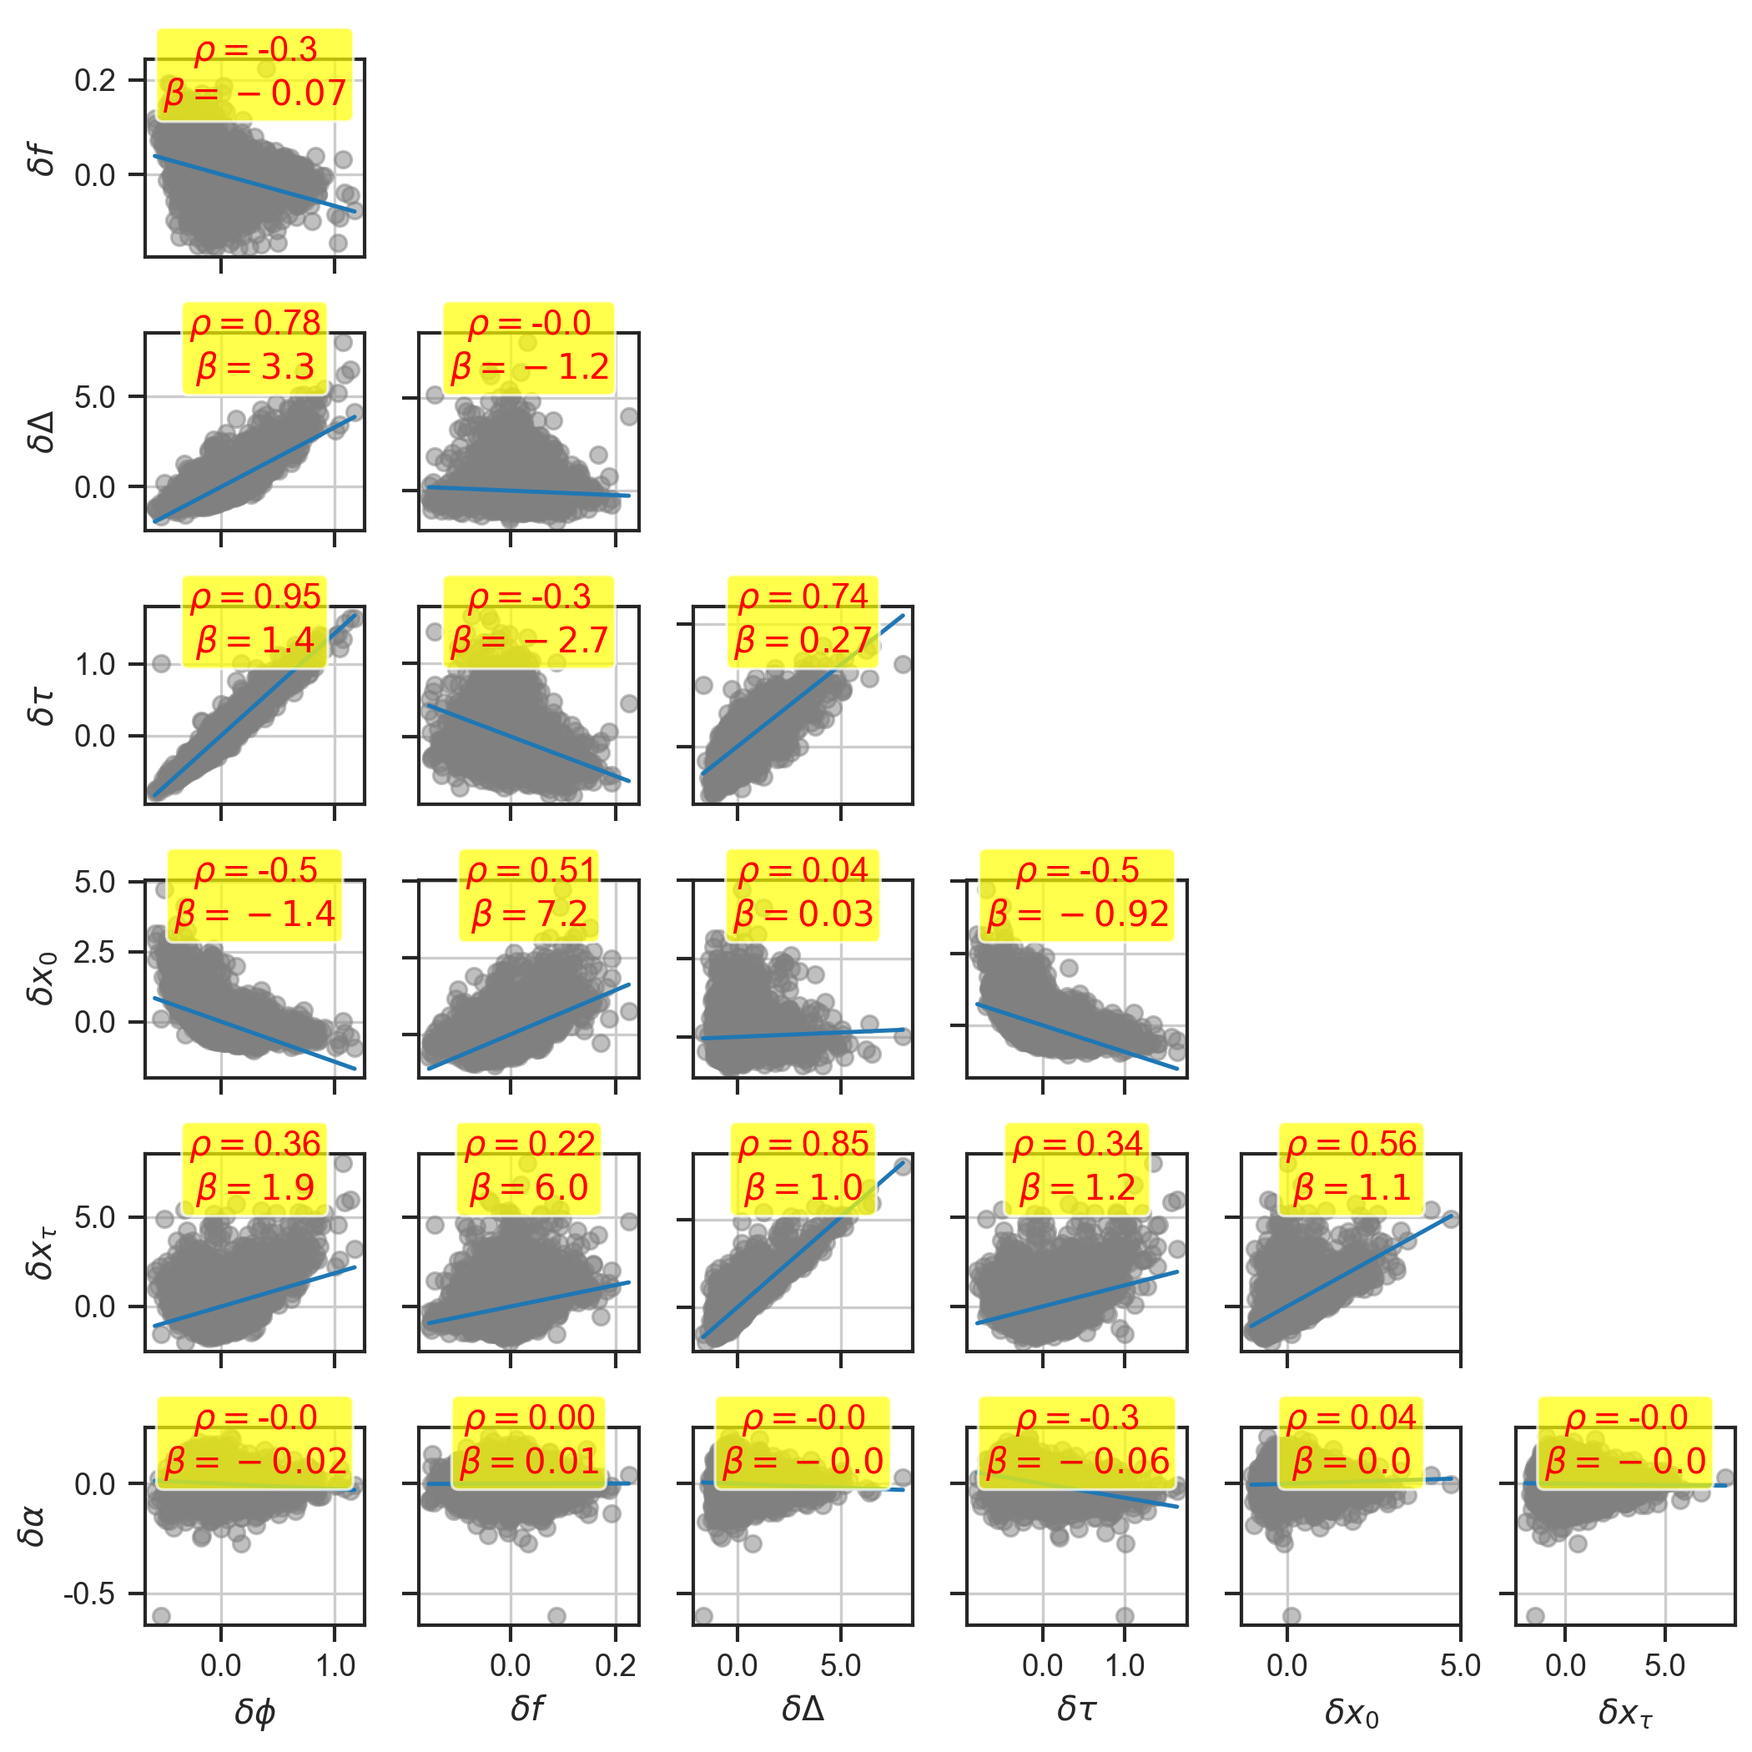
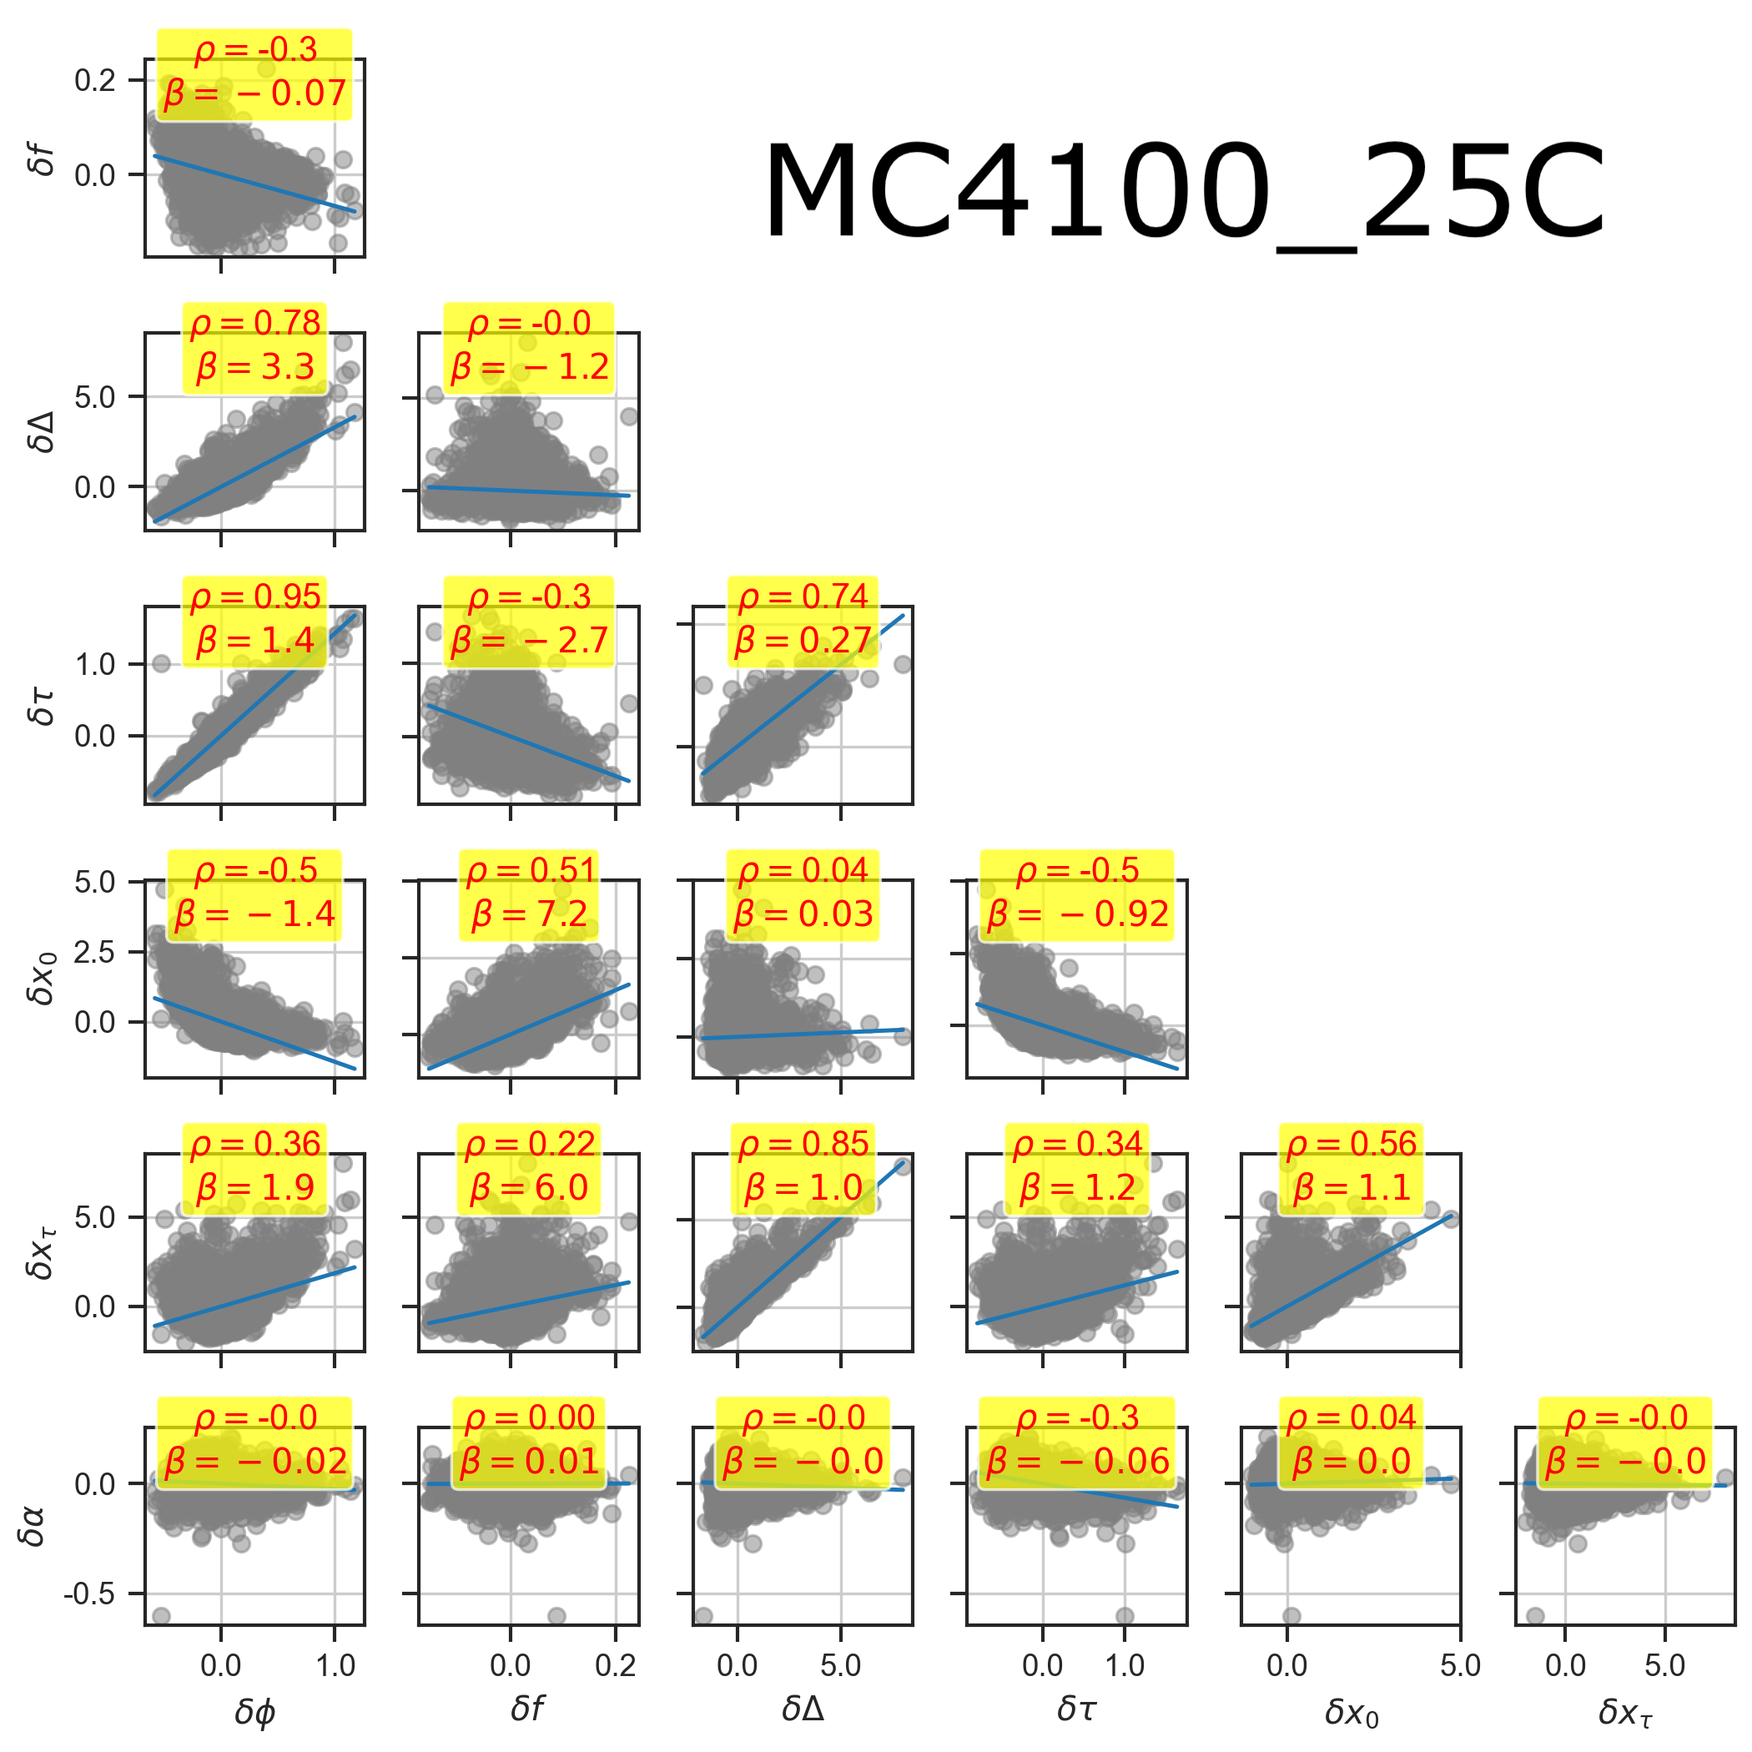
Reformatted the folders to be clearer with the new data we have.

Changed region(s): [[0.4333, 0.0619, 0.9286, 0.1548]]

diff --git a/MSD timescale/msd.py b/MSD timescale/msd.py
@@ -1,26 +1,223 @@
 #!/usr/bin/env bash
 
-from CustomFuncsAndVars.global_variables import symbols, units, dataset_names, create_folder, shuffle_info, phenotypic_variables, shuffle_lineage_generations, cmap, seaborn_preamble
+from CustomFuncsAndVars.global_variables import symbols, units, dataset_names, create_folder, shuffle_info, phenotypic_variables, shuffle_lineage_generations, cmap, seaborn_preamble, symbols
 import pandas as pd
 import matplotlib.pyplot as plt
 import numpy as np
 import seaborn as sns
-from scipy.stats import linregress
+from scipy.stats import linregress, pearsonr
+import pingouin as pg
 
 
-def main(args):
+# The function that will do the analysis
+def get_deviation_dataframes(variables, out_df, regs, dataframe, label, distances=np.arange(1, 51)):
+    for count, lin_id in enumerate(dataframe.lineage_ID.unique()):
+        print(count)
+        
+        # Temporary dictionary to make the process of saving data faster
+        temp_dict = {}
+        ind = 0
+        
+        # Get the lineage from the dataframe
+        lineage = dataframe[dataframe['lineage_ID'] == lin_id].copy().sort_values('generation')
+        
+        # Get the cumulative sum for the variables in the lineage
+        stand_cumsum_lineage = ((lineage[variables] - lineage[variables].mean()) / lineage[variables].std()).cumsum()
+        
+        for variable in variables:
+            
+            # the random walk
+            lin_walk = stand_cumsum_lineage[variable].values - stand_cumsum_lineage[variable].dropna().iloc[0]
+            
+            msd_lineage = []
+            
+            for distance in distances:
+                
+                msd = np.mean(np.array([
+                    # The calculation
+                    (first - second) ** 2
+                    
+                    # the points in the time-series
+                    for first, second in zip(lin_walk[:-distance], lin_walk[distance:])
+                    
+                    # Only include the points that are not NaNs
+                    if ~np.any([np.isnan(first), np.isnan(second)])
+                ]))
+                
+                msd_lineage.append(msd)
+                
+                temp_dict[ind] = {
+                    'MSD': msd,
+                    'RMSD': np.sqrt(msd),
+                    'NRMSD': np.sqrt(msd) / (np.nanmax(lin_walk) - np.nanmin(lin_walk)),
+                    'CV_NRMSD': np.sqrt(msd) / np.nanmean(lin_walk),
+                    'distance': distance,
+                    'dataset': args.data_origin,
+                    'n': len(lin_walk) - distance,
+                    'variable': variable,
+                    'lineage': lin_id,
+                    'kind': label
+                }
+                
+                # make space in the dictionary
+                ind += 1
+            
+            slope, intercept, _, _, std_err = linregress(np.log(distances), np.log(msd_lineage))
+            
+            regs = regs.append({
+                'intercept': np.exp(intercept),
+                'slope': slope,
+                'std_error': std_err,
+                'variable': variable,
+                'lineage': lin_id,
+                'kind': label
+            }, ignore_index=True)
+            
+            # # Plot it
+            # plt.plot(lin_walk)
+            # plt.axhline(0, c='black')
+            # plt.show()
+            # plt.close()
+        # print(temp_dict)
+        
+        # Append them to the big dataframes
+        out_df = out_df.append(pd.DataFrame.from_dict(temp_dict, "index"), ignore_index=True)
+    
+    return [out_df, regs]
+
+
+def main(args, variables, distances=np.arange(1, 51)):
+    # The types of lineages
     physical_units = pd.read_csv('{}/{}'.format(args.save_folder, args.pu)).sort_values(['lineage_ID', 'generation']).reset_index(drop=True)
-
+    
     population_sampled = shuffle_info(physical_units, mm=args.MM)
-
+    
     lineage_shuffled = shuffle_lineage_generations(physical_units, args.MM)
     
-    for lin_id in physical_units.lineage_ID.unique():
-        stand_lineage = physical_units[physical_units['lineage_ID'] == lin_id].copy().sort_values('generation')
-        stand_cumsum_lineage = ((stand_lineage[phenotypic_variables] - stand_lineage[phenotypic_variables].mean()) / stand_lineage[phenotypic_variables].std()).cumsum()
-        for variable in phenotypic_variables:
-            lin_walk = stand_cumsum_lineage[variable] - stand_lineage[stand_lineage['generation'] == stand_lineage.generation.min()]
+    # This is where we will store the results of our analysis
+    mean_square_deviations = pd.DataFrame(columns=['MSD', 'RMSD', 'NRMSD', 'CV_NRMSD', 'distance', 'dataset', 'n', 'variable', 'lineage', 'kind'])
+    
+    regressions = pd.DataFrame(columns=['intercept', 'slope', 'std_error', 'variable', 'lineage', 'kind'])
+    
+    # For each type of lineage, do the analysis
+    for dataframe, label in zip([physical_units, population_sampled, lineage_shuffled], ['Trace', 'Artificial', 'Shuffled']):
+        print(label)
+        
+        mean_square_deviations, regressions = get_deviation_dataframes(variables, mean_square_deviations, regressions, dataframe, label)
+    
+    # Save them to the folder
+    mean_square_deviations.to_csv('{}/MSD_df.csv'.format(args.data_origin), index=False)
+    regressions.to_csv('{}/regression_df.csv'.format(args.data_origin), index=False)
+    
+    # Make sure all the regressions went well
+    assert ~regressions.isnull().values.any()
+    
+    return [mean_square_deviations, regressions]
+
+
+def plot_individual_msds(args, variables, dataframe, label):
+    create_folder(args.data_origin)
+    for y in ['MSD', 'RMSD', 'NRMSD', 'CV_NRMSD']:
+        create_folder(args.data_origin + '/' + y)
+        create_folder(args.data_origin + '/' + y + '/' + label)
+    
+    print('plotting')
+    
+    seaborn_preamble()
+    
+    for variable in variables:
+        # if variable != 'fold_growth':
+        #     continue
+        
+        for y in ['MSD', 'RMSD', 'NRMSD', 'CV_NRMSD']:
+            # if y != 'MSD':
+            #     continue
             
+            relevant = dataframe[(dataframe['variable'] == variable)].sort_values(['lineage', 'distance']).copy()
+            
+            # slope, intercept, _, _, std_err = linregress(np.log(relevant['distance'].values), np.log(relevant[y].values))
+            
+            for lin_id in relevant.lineage.unique():
+                to_plot = relevant[relevant['lineage'] == lin_id].sort_values('distance')
+                # print(to_plot)
+                # print(to_plot['distance'])
+                # exit()
+                plt.plot(to_plot['distance'].values, to_plot[y].values)  # , marker='o' to_plot['distance'].values
+            
+            # sns.pointplot(data=relevant, x='distance', y='MSD', color='black', ci=95)
+            #
+            # relevant['distance'] = relevant['distance'] - 1
+            # sns.lineplot(data=relevant, x='distance', y=y, ci=None, marker=None, hue='lineage')
+            
+            the_y_mean = np.array([relevant[relevant['distance'] == dist][y].mean() for dist in relevant.distance.unique()])
+            yerr = np.array([relevant[relevant['distance'] == dist][y].std() for dist in relevant.distance.unique()])
+            
+            plt.errorbar(x=relevant.distance.unique(), y=the_y_mean, yerr=yerr, color='black', marker='o', capsize=1, capthick=1)
+            
+            # plt.plot(relevant.distance.unique(), [np.exp(intercept) * (distance ** slope) for distance in relevant.distance.unique()], ls='--', linewidth=3,
+            #          label=str(np.exp(intercept))[:4] + r'$x^{' + str(slope)[:4] + '}$', color='black')
+            
+            plt.title(args.data_origin + ': ' + label)
+            # plt.legend(title='')
+            plt.ylabel(r'{}('.format(y) + symbols['physical_units'][variable] + r')')
+            plt.xlabel('Distance')
+            # plt.yscale('log')
+            # plt.xscale('log')
+            plt.tight_layout()
+            plt.savefig('{}/{}/{}/{}_nologlog'.format(args.data_origin, y, label, variable), dpi=300)
+            # plt.show()
+            plt.close()
+
+
+def heatmap_analogs(args, df, label, variables=phenotypic_variables[3:], suffix=''):
+    sns.set_context('paper')
+    sns.set_style("ticks", {'axes.grid': True})
+    
+    latex_symbols = {variable: symbols[label][variable] for variable in variables}
+    
+    df = df[variables].copy().rename(columns=latex_symbols)
+    
+    to_plot = pg.pairwise_corr(df, method='pearson')
+    
+    # reformat the results into a dataframe we can use for the heatmap
+    to_plot_df = pd.DataFrame(columns=to_plot.X.unique(), index=to_plot.Y.unique(), dtype=float)
+    repeats = []
+    for x in to_plot.X.unique():
+        for y in to_plot.Y.unique():
+            if x != y and y not in repeats:
+                # Add the results
+                to_plot_df[x].loc[y] = to_plot[(to_plot['X'] == x) & (to_plot['Y'] == y)]['r'].values[0]
+        
+        repeats.append(x)
+    
+    # The mask to show only the lower triangle in the heatmap
+    mask = np.ones_like(to_plot_df)
+    mask[np.tril_indices_from(mask)] = False
+    
+    fig, ax = plt.subplots(tight_layout=True, figsize=[7 * (2 / 3), 5.5 * (2 / 3)])
+    
+    sns.heatmap(to_plot_df, annot=True, square=True, vmin=-1, vmax=1, mask=mask, center=0)
+    # plt.title(label)
+    # plt.tight_layout()
+    # plt.savefig('{}/{}/{}{}.png'.format(args.figs_location, args.scch, label, suffix), dpi=300)
+    plt.show()
+    plt.close()
+
+
+def hists_of_regression_stats(args, dataframe):
+    name = '{}/Histogram of regression parameters'.format(args.data_origin)
+    create_folder(name)
+    seaborn_preamble()
+    df = dataframe.replace(symbols['physical_units']).copy()
+    for y in ['slope', 'intercept', 'std_error']:
+        sns.boxplot(data=df, x='variable', y=y, showfliers=False, hue='kind')
+        plt.title('')
+        plt.xlabel('')
+        plt.legend(title='')
+        plt.tight_layout()
+        # plt.show()
+        plt.savefig(name + '/' + y + '.png', dpi=300)
+        plt.close()
 
 
 if __name__ == '__main__':
@@ -41,13 +238,9 @@ if __name__ == '__main__':
     # How long does running this take?
     first_time = time.time()
     
-    total_ebp_dict = {}
-    
-    print(dataset_names)
-    
     # Do all the Mother Machine data
-    for data_origin in dataset_names:  # dataset_names
-        data_origin = 'lambda_LB'
+    for data_origin in ['MC4100_25C', 'MC4100_27C', 'MC4100_37C']:  # dataset_names
+        # data_origin = 'lambda_LB'
         print(data_origin)
         
         parser = argparse.ArgumentParser(description='Process Mother Machine Lineage Data.')
@@ -70,41 +263,65 @@ if __name__ == '__main__':
                             required=False, default=os.path.dirname(os.path.dirname(os.path.abspath(__file__))) + '/Figures/' + data_origin)
         args = parser.parse_args()
         
-        folder_name = args.figs_location + '/plot_ebp_per_gen'
         create_folder(args.figs_location)
         
-        # folder_name = args.os.path.dirname(os.path.dirname(os.path.abspath(__file__))) + '/Figures/plot_ebp_per_gen_all_datasets'
-        
-        create_folder(folder_name)
-        
         # if data_origin == 'SM':
-        #     main(args, first_generation=1, final_generation=25)  # fg[data_origin]
+        #     main(args, phenotypic_variables)  # fg[data_origin]
         # else:
-        #     main(args, first_generation=0, final_generation=24)
+        #     main(args, phenotypic_variables)
+            
+        print('Finished analysis')
         
-        # ebp = pd.read_csv('{}/{}'.format(args.save_folder, args.ebp))
-        # total_length_ebp = pd.read_csv('gamma_ta_corrs_{}.csv'.format(args.data_origin))
-        # ebp_pergen = pd.read_csv('gamma_ta_corrs_per_gen_{}.csv'.format(args.data_origin))
+        out_df = pd.read_csv('{}/MSD_df.csv'.format(args.data_origin))
+        reg_df = pd.read_csv('{}/regression_df.csv'.format(args.data_origin))
         
-        # # total_ebp_dict.update({args.data_origin: ebp_pergen})
-        #
-        # # print('moving on to plotting')
-        # # plot_ebp_per_gen({args.data_origin: ebp_pergen}, folder_name)
-        #
-        # # print(total_length_ebp)
+        # # Plot the boxplots of the regression parameters
+        # hists_of_regression_stats(args, reg_df)
         
-        total = pd.read_csv('gamma_ta_corrs_{}.csv'.format(args.data_origin))
+        # Plot the individual msds for different lineage types and variables
+        for label in out_df.kind.unique():
+            print(label)
+            dataframe = out_df[out_df['kind'] == label].copy()
+            
+            # Plot it
+            plot_individual_msds(args, phenotypic_variables, dataframe, label)
         
-        plot_ebp(total[total['label'] != 'Shuffled'], symbols['time_averages'])
+        exit()
+        # Where to save the correlations between regression parameters
+        correlations = pd.DataFrame(columns=['var1', 'var2', 'pcorr', 'reg_prop1', 'reg_prop2', 'kind'])
         
-        # # set a style on seaborn module
-        # sns.set_context('paper')
-        # sns.set_style("ticks", {'axes.grid': True})
-        # _, ax = plt.subplots(tight_layout=True, figsize=[3, 3])
-        # plot_ebp(, ax, symbols['time_averages'])
-        # # save the figure
-        # plt.savefig('{}/EBP.png'.format(args.figs_location), dpi=300)
-        # # plt.show()
-        # plt.close()
+        # Get the correlations between different regression parameters for different lineage types and variables
+        for label in out_df.kind.unique():
+            print(label)
+            
+            dataframe = reg_df[reg_df['kind'] == label].copy()
+            
+            print(dataframe)
+            exit()
+            
+            repeat = []
+            for var1 in phenotypic_variables:
+                for var2 in phenotypic_variables:
+                    if var2 not in repeat:
+                        relevant_x = dataframe[dataframe['variable'] == var1]
+                        relevant_y = dataframe[dataframe['variable'] == var2]
+                        for reg_prop1 in ['slope', 'intercept', 'std_error']:
+                            for reg_prop2 in ['slope', 'intercept', 'std_error']:
+                                # For the correlation
+                                x = relevant_x[reg_prop1].sort_values('lineage').values
+                                y = relevant_y[reg_prop2].sort_values('lineage').values
+                                
+                                correlations.append({
+                                    'var1': var1,
+                                    'var2': var2,
+                                    'pcorr': pearsonr(x, y),
+                                    'reg_prop1': reg_prop1,
+                                    'reg_prop2': reg_prop2,
+                                    'kind': label
+                                }, ignore_index=True)
+                                print(correlations)
+                                exit()
+                repeat.append(var1)
         
         print('*' * 200)
+        exit()

diff --git a/DataProcessing/mm_and_sm_processing.py b/DataProcessing/mm_and_sm_processing.py
@@ -379,6 +379,7 @@ def main_mm(args):
         # for start, end in zip(start_indices, end_indices):
         #     plt.axvline(start, color='green')
         #     plt.axvline(end, color='red')
+        # plt.yscale('log')
         # plt.tight_layout()
         # plt.show()
         # plt.close()

diff --git a/CustomFuncsAndVars/global_variables.py b/CustomFuncsAndVars/global_variables.py
@@ -342,7 +342,6 @@ def cut_uneven_pairs(info):
     return new_info
 
 
-
 import pandas as pd
 import seaborn as sns
 
